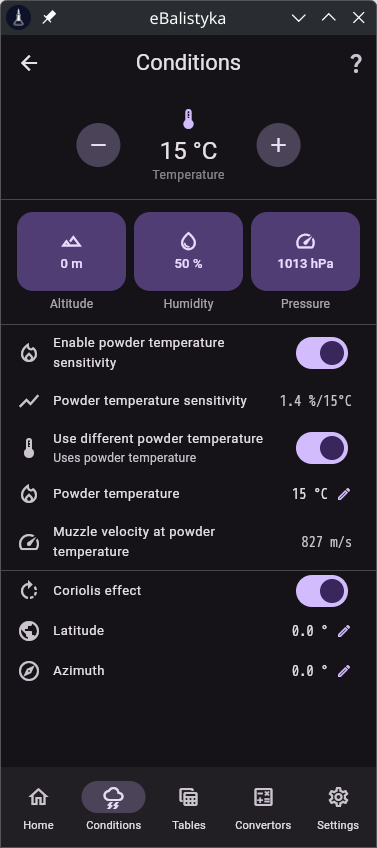
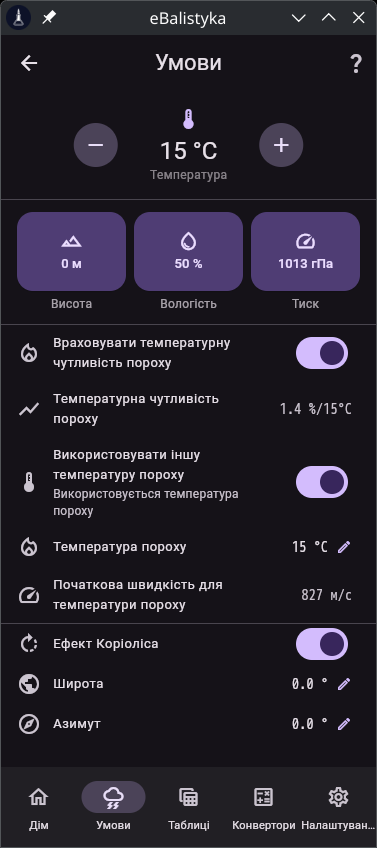
help: conditionsScreen.md

diff --git a/lib/features/conditions/conditions_screen.dart b/lib/features/conditions/conditions_screen.dart
@@ -1,5 +1,6 @@
 import 'package:ebalistyka/core/extensions/num_extensions.dart';
 import 'package:ebalistyka/l10n/app_localizations.dart';
+import 'package:ebalistyka/shared/helpers/debugHighLight.dart';
 import 'package:ebalistyka/shared/icons_definitions.dart';
 import 'package:ebalistyka/shared/models/unit_picker_context.dart';
 import 'package:ebalistyka/shared/widgets/base_screen.dart';
@@ -67,71 +68,79 @@ class ConditionsScreen extends ConsumerWidget {
           // ── Temperature — big centred control ──────────────────────────
           Padding(
             padding: const EdgeInsets.fromLTRB(16, 16, 16, 16),
-            child: TempControl(
-              rawValue: state.temperature.rawValue,
-              displayUnit: state.temperature.displayUnit,
-              onChanged: (v) => notifier.updateTemperature(v),
+            child: ht(
+              TempControl(
+                rawValue: state.temperature.rawValue,
+                displayUnit: state.temperature.displayUnit,
+                onChanged: (v) => notifier.updateTemperature(v),
+              ),
             ),
           ),
           const TileDivider(),
 
           // ── Altitude / Humidity / Pressure ────────────────────────────
-          Padding(
-            padding: const EdgeInsets.fromLTRB(16, 12, 16, 12),
-            child: IconValueButtonRow(
-              items: [
-                IconValueButton(
-                  icon: IconDef.altitude,
-                  label: l10n.altitude,
-                  heroTag: 'cond-alt',
-                  value:
-                      '${state.altitude.displayValue.toFixedSafe(state.altitude.decimals)} ${state.altitude.symbol}',
-                  onTap: () => showUnitHybridPickerDialog(altCtx),
-                ),
-                IconValueButton(
-                  icon: IconDef.humidity,
-                  label: l10n.humidity,
-                  heroTag: 'cond-hum',
-                  value:
-                      '${state.humidity.displayValue.toFixedSafe(state.humidity.decimals)} ${state.humidity.symbol}',
-                  onTap: () => showUnitHybridPickerDialog(humCtx),
-                ),
+          ht(
+            Padding(
+              padding: const EdgeInsets.fromLTRB(16, 12, 16, 12),
+              child: IconValueButtonRow(
+                items: [
+                  IconValueButton(
+                    icon: IconDef.altitude,
+                    label: l10n.altitude,
+                    heroTag: 'cond-alt',
+                    value:
+                        '${state.altitude.displayValue.toFixedSafe(state.altitude.decimals)} ${state.altitude.symbol}',
+                    onTap: () => showUnitHybridPickerDialog(altCtx),
+                  ),
+                  IconValueButton(
+                    icon: IconDef.humidity,
+                    label: l10n.humidity,
+                    heroTag: 'cond-hum',
+                    value:
+                        '${state.humidity.displayValue.toFixedSafe(state.humidity.decimals)} ${state.humidity.symbol}',
+                    onTap: () => showUnitHybridPickerDialog(humCtx),
+                  ),
 
-                IconValueButton(
-                  icon: IconDef.velocity,
-                  label: l10n.pressure,
-                  heroTag: 'cond-press',
-                  value:
-                      '${state.pressure.displayValue.toFixedSafe(state.pressure.decimals)} ${state.pressure.symbol}',
-                  onTap: () => showUnitHybridPickerDialog(pressCtx),
-                ),
-              ],
+                  IconValueButton(
+                    icon: IconDef.velocity,
+                    label: l10n.pressure,
+                    heroTag: 'cond-press',
+                    value:
+                        '${state.pressure.displayValue.toFixedSafe(state.pressure.decimals)} ${state.pressure.symbol}',
+                    onTap: () => showUnitHybridPickerDialog(pressCtx),
+                  ),
+                ],
+              ),
             ),
           ),
           const TileDivider(),
 
           // ── Powder sensitivity ─────────────────────────────────────────
-          PowderSensSection(
-            usePowderSensitivity: state.powderSensOn,
-            useDiffPowderTemp: state.useDiffPowderTemp,
-            temperatureUnit: state.temperature.displayUnit,
-            powderTempRaw: state.powderTemperature?.rawValue,
-            mvValue: state.mvAtPowderTemp,
-            sensitivityValue: state.powderSensitivity,
-            onSensitivityToggled: notifier.setPowderSensitivity,
-            onDiffTempToggled: notifier.setDiffPowderTemp,
-            onPowderTempChanged: notifier.updatePowderTemp,
+          ht(
+            PowderSensSection(
+              usePowderSensitivity: state.powderSensOn,
+              useDiffPowderTemp: state.useDiffPowderTemp,
+              temperatureUnit: state.temperature.displayUnit,
+              powderTempRaw: state.powderTemperature?.rawValue,
+              mvValue: state.mvAtPowderTemp,
+              sensitivityValue: state.powderSensitivity,
+              onSensitivityToggled: notifier.setPowderSensitivity,
+              onDiffTempToggled: notifier.setDiffPowderTemp,
+              onPowderTempChanged: notifier.updatePowderTemp,
+            ),
           ),
           const TileDivider(),
           // ── Coriolis ───────────────────────────────────────────────────
-          CoriolisSection(
-            useCoriolis: state.coriolisOn,
-            latitudeRaw: state.latitude.rawValue,
-            azimuthRaw: state.azimuth.rawValue,
-            angularUnit: state.latitude.displayUnit,
-            onCoriolisToggled: notifier.setCoriolis,
-            onLatitudeChanged: notifier.updateLatitude,
-            onAzimuthChanged: notifier.updateAzimuth,
+          ht(
+            CoriolisSection(
+              useCoriolis: state.coriolisOn,
+              latitudeRaw: state.latitude.rawValue,
+              azimuthRaw: state.azimuth.rawValue,
+              angularUnit: state.latitude.displayUnit,
+              onCoriolisToggled: notifier.setCoriolis,
+              onLatitudeChanged: notifier.updateLatitude,
+              onAzimuthChanged: notifier.updateAzimuth,
+            ),
           ),
           const SizedBox(height: 16),
         ],

diff --git a/lib/features/settings/settings_screen.dart b/lib/features/settings/settings_screen.dart
@@ -177,16 +177,17 @@ class _SettingsScreenState extends ConsumerState<SettingsScreen> {
                     onPressed: () async {
                       final file = EbcpService.buildFullExport(ref);
                       final messenger = ScaffoldMessenger.of(context);
-                      final errorColor =
-                          Theme.of(context).colorScheme.error;
+                      final errorColor = Theme.of(context).colorScheme.error;
                       try {
                         await EbcpService.shareFile(file, 'ebalistyka_backup');
                       } catch (e) {
-                        messenger.showSnackBar(SnackBar(
-                          content: Text(e.toString()),
-                          backgroundColor: errorColor,
-                          duration: const Duration(seconds: 2),
-                        ));
+                        messenger.showSnackBar(
+                          SnackBar(
+                            content: Text(e.toString()),
+                            backgroundColor: errorColor,
+                            duration: const Duration(seconds: 2),
+                          ),
+                        );
                       }
                     },
                   ),

diff --git a/lib/features/home/sub_screens/my_profiles_screen.dart b/lib/features/home/sub_screens/my_profiles_screen.dart
@@ -217,11 +217,13 @@ class _ProfilesScreenState extends ConsumerState<ProfilesScreen> {
                 EbcpService.sanitizeName(profile.name),
               );
             } catch (e) {
-              messenger.showSnackBar(SnackBar(
-                content: Text(e.toString()),
-                backgroundColor: errorColor,
-                duration: const Duration(seconds: 2),
-              ));
+              messenger.showSnackBar(
+                SnackBar(
+                  content: Text(e.toString()),
+                  backgroundColor: errorColor,
+                  duration: const Duration(seconds: 2),
+                ),
+              );
             }
           },
         ),

diff --git a/assets/markdown/uk/conditionsScreen.md b/assets/markdown/uk/conditionsScreen.md
@@ -1,3 +1,56 @@
 ## Умови стрільби
 
-### Тут буде допомога для умов стрільби
+![Умови стрільби](resource:assets/markdown/uk/conditionsScreen_overview.png)
+
+Екран умов дозволяє задати атмосферні параметри, чутливість пороху до температури та поправку на ефект Коріоліса. Всі значення одразу впливають на розрахунок поправок на головному екрані.
+
+---
+
+### Температура
+
+![Температура](resource:assets/markdown/uk/conditionsScreen_temperature.png)
+
+Великий центральний елемент керування температурою повітря. Проведіть пальцем вгору або вниз щоб змінити значення, або натисніть щоб ввести точне число.
+
+---
+
+### Висота, вологість, тиск
+
+![Висота, вологість, тиск](resource:assets/markdown/uk/conditionsScreen_atmo.png)
+
+Три кнопки для введення атмосферних умов:
+
+- **Висота** — висота над рівнем моря
+- **Вологість** — відносна вологість повітря (%)
+- **Тиск** — атмосферний тиск
+
+Натисніть на будь-яку кнопку, щоб відкрити введення значення з вибором одиниць.
+
+---
+
+### Чутливість пороху до температури
+
+![Чутливість пороху](resource:assets/markdown/uk/conditionsScreen_powderSens.png)
+
+Ця секція враховує зміну початкової швидкості кулі залежно від температури пороху.
+
+**Перемикач «Чутливість пороху»** — вмикає/вимикає корекцію. Значення чутливості задається у властивостях набою.
+
+**Перемикач «Інша температура пороху»:**
+- **Вимкнено** — для розрахунку використовується температура повітря з поля вище
+- **Увімкнено** — дозволяє задати окрему температуру пороху (наприклад, коли набої зберігаються в теплому місці, а стрільба ведеться на холоді)
+
+Нижче відображається інформаційний рядок з поточною початковою швидкістю (МВ) при заданій температурі пороху.
+
+---
+
+### Ефект Коріоліса
+
+![Ефект Коріоліса](resource:assets/markdown/uk/conditionsScreen_coriolis.png)
+
+Враховує відхилення кулі через обертання Землі. Актуально на дистанціях понад 800–1000 м.
+
+**Перемикач «Ефект Коріоліса»** — вмикає/вимикає корекцію. Після увімкнення з'являються два поля:
+
+- **Широта** — географічна широта точки стрільби (від −90° до +90°)
+- **Азимут** — напрямок пострілу відносно півночі (0–360°)

diff --git a/assets/markdown/en/conditionsScreen.md b/assets/markdown/en/conditionsScreen.md
@@ -1,3 +1,56 @@
-## Shooting conditions
+## Shooting Conditions
 
-### There is will be shooting conditions help
+![Shooting conditions](resource:assets/markdown/en/conditionsScreen_overview.png)
+
+The Conditions screen lets you set atmospheric parameters, powder temperature sensitivity, and the Coriolis effect correction. All values immediately affect the adjustments calculated on the Home screen.
+
+---
+
+### Temperature
+
+![Temperature](resource:assets/markdown/en/conditionsScreen_temperature.png)
+
+A large central control for air temperature. Swipe up or down to change the value, or tap to enter an exact number.
+
+---
+
+### Altitude, Humidity, Pressure
+
+![Altitude, humidity, pressure](resource:assets/markdown/en/conditionsScreen_atmo.png)
+
+Three buttons for entering atmospheric conditions:
+
+- **Altitude** — elevation above sea level
+- **Humidity** — relative air humidity (%)
+- **Pressure** — atmospheric pressure
+
+Tap any button to open the value input with unit selection.
+
+---
+
+### Powder Temperature Sensitivity
+
+![Powder sensitivity](resource:assets/markdown/en/conditionsScreen_powderSens.png)
+
+This section accounts for the change in muzzle velocity depending on powder temperature.
+
+**"Powder Sensitivity" toggle** — enables/disables the correction. The sensitivity value is set in the cartridge properties.
+
+**"Different Powder Temperature" toggle:**
+- **Off** — the air temperature entered above is used for the calculation
+- **On** — allows setting a separate powder temperature (e.g. when ammunition is stored in a warm place but fired in the cold)
+
+An info row below shows the current muzzle velocity (MV) at the given powder temperature.
+
+---
+
+### Coriolis Effect
+
+![Coriolis effect](resource:assets/markdown/en/conditionsScreen_coriolis.png)
+
+Accounts for bullet deflection due to Earth's rotation. Relevant at distances beyond 800–1000 m.
+
+**"Coriolis Effect" toggle** — enables/disables the correction. Once enabled, two fields appear:
+
+- **Latitude** — geographic latitude of the firing position (−90° to +90°)
+- **Azimuth** — firing direction relative to north (0–360°)
